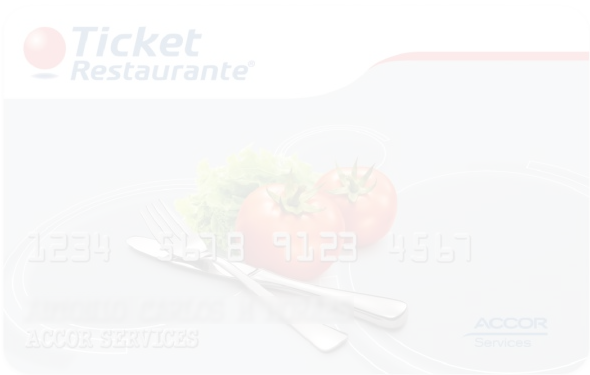
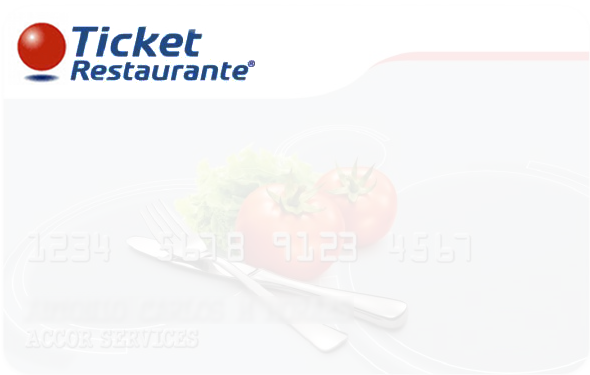
incluindo apontador e disclaimer no layout. Alguns ajustes (botoes, cores)

Changed region(s): [[0.0305, 0.0587, 0.4271, 0.2347]]

diff --git a/public/style.css b/public/style.css
@@ -1,5 +1,38 @@
 body{background:#eee;font-family:Helvetica;color:#555;}
-div{background:#fefefe url(/images/tr.png) no-repeat;border:1px solid #ccc;-moz-border-radius:10px;-webkit-border-radius:10px;border-radius:10px;padding:0;width:590px;height:380px;margin:0 auto}
+#card{background:#fefefe url(/images/tr.png) no-repeat;border:1px solid #ccc;-moz-border-radius:10px;-webkit-border-radius:10px;border-radius:10px;padding:0;width:590px;height:380px;margin:0 auto}
 p{margin: 130px 40px 0 30px}
+a{text-decoration: none;color:#1f4d85;}
+a:hover;{text-decoration: none;}
+a:visited;{text-decoration: none;}
 h1{text-align:center;}
 #ticket_number{font-family:Courier;font-weight: bold;font-size: 20pt;margin: 40px 0 0 30px; padding: 6px; width:450px; border: 1px solid #ccc;-moz-border-radius:1px;-webkit-border-radius:2px;border-radius:1px;}
+#apontador_power{background:transparent url(/images/apontador_power_small.png) no-repeat;width:200px;height:100px;margin:40px 470px auto}
+#disclaimer{padding-top:50px;font-size:0.8em; text-align:center; width:800px;margin:auto;}
+#button_ {
+  background-color:#bbb;
+  border-bottom-color:#999;
+  border-bottom-left-radius:5px 5px;
+  border-bottom-right-radius:5px 5px;
+  border-bottom-style:solid;
+  border-bottom-width:1px;
+  border-left-color:#ddd;
+  border-left-style:solid;
+  border-left-width:1px;
+  border-right-color:#999;
+  border-right-style:solid;
+  border-right-width:1px;
+  border-top-color:#ddd;
+  border-top-left-radius:5px 5px;
+  border-top-right-radius:5px 5px;
+  border-top-style:solid;
+  border-top-width:1px;
+  color:#fff;
+  cursor:pointer;
+  font-size:1.2em;
+  height:44px;
+  padding-bottom:5px;
+  padding-left:6px;
+  padding-right:5px;
+  padding-top:5px;
+  text-align:center;
+}
